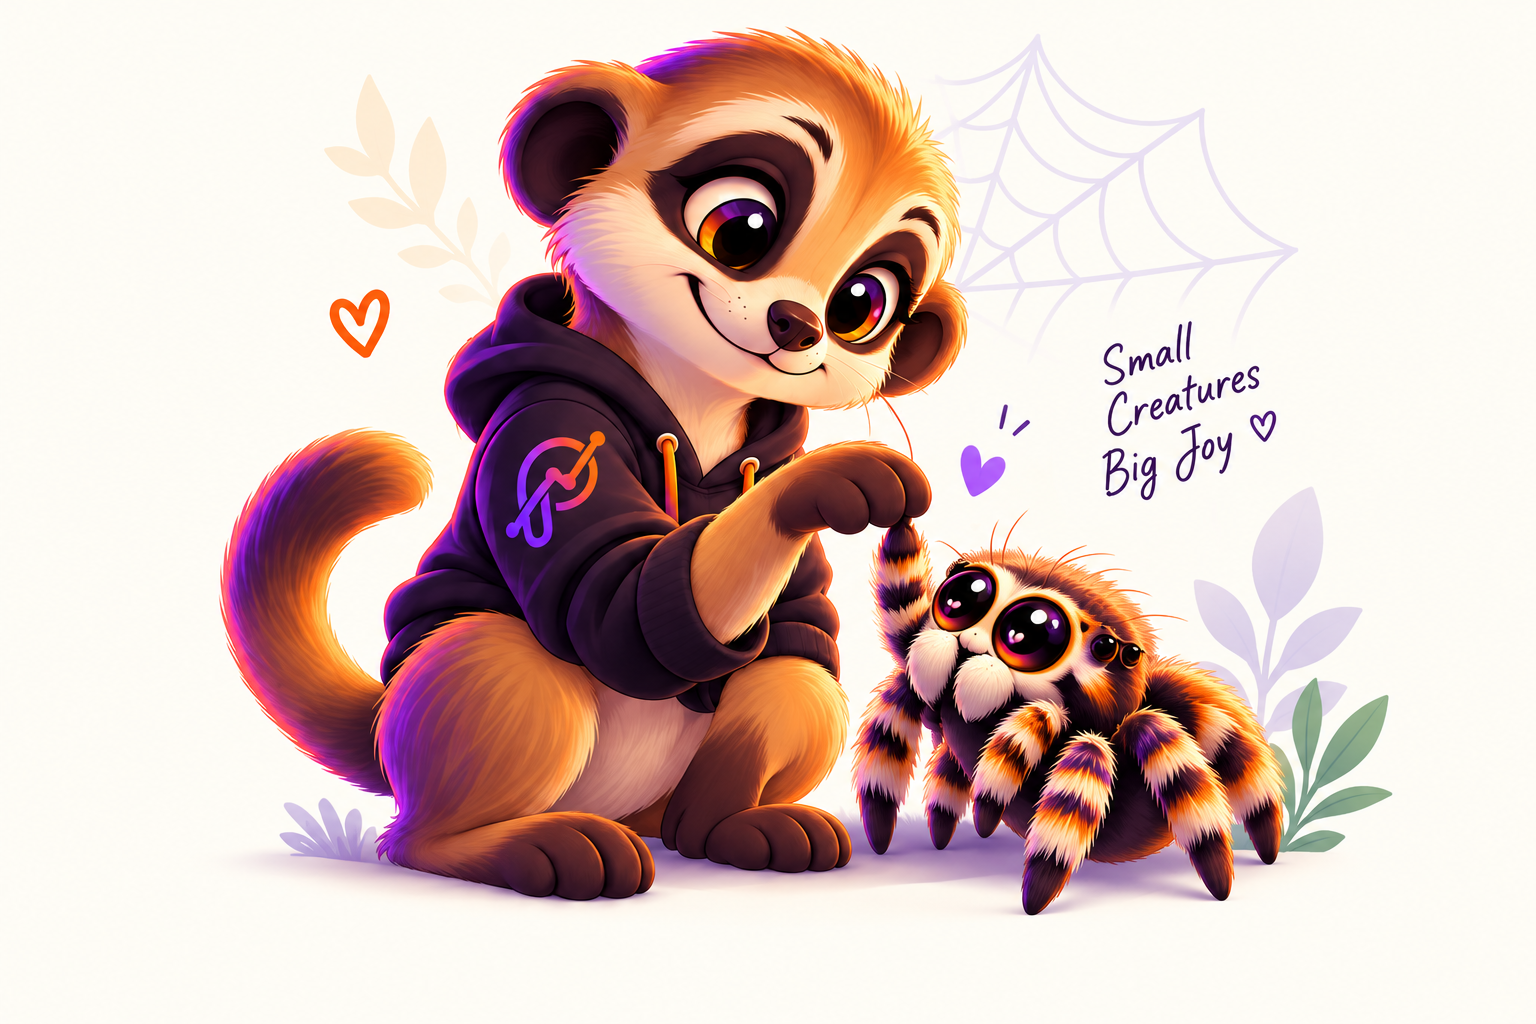
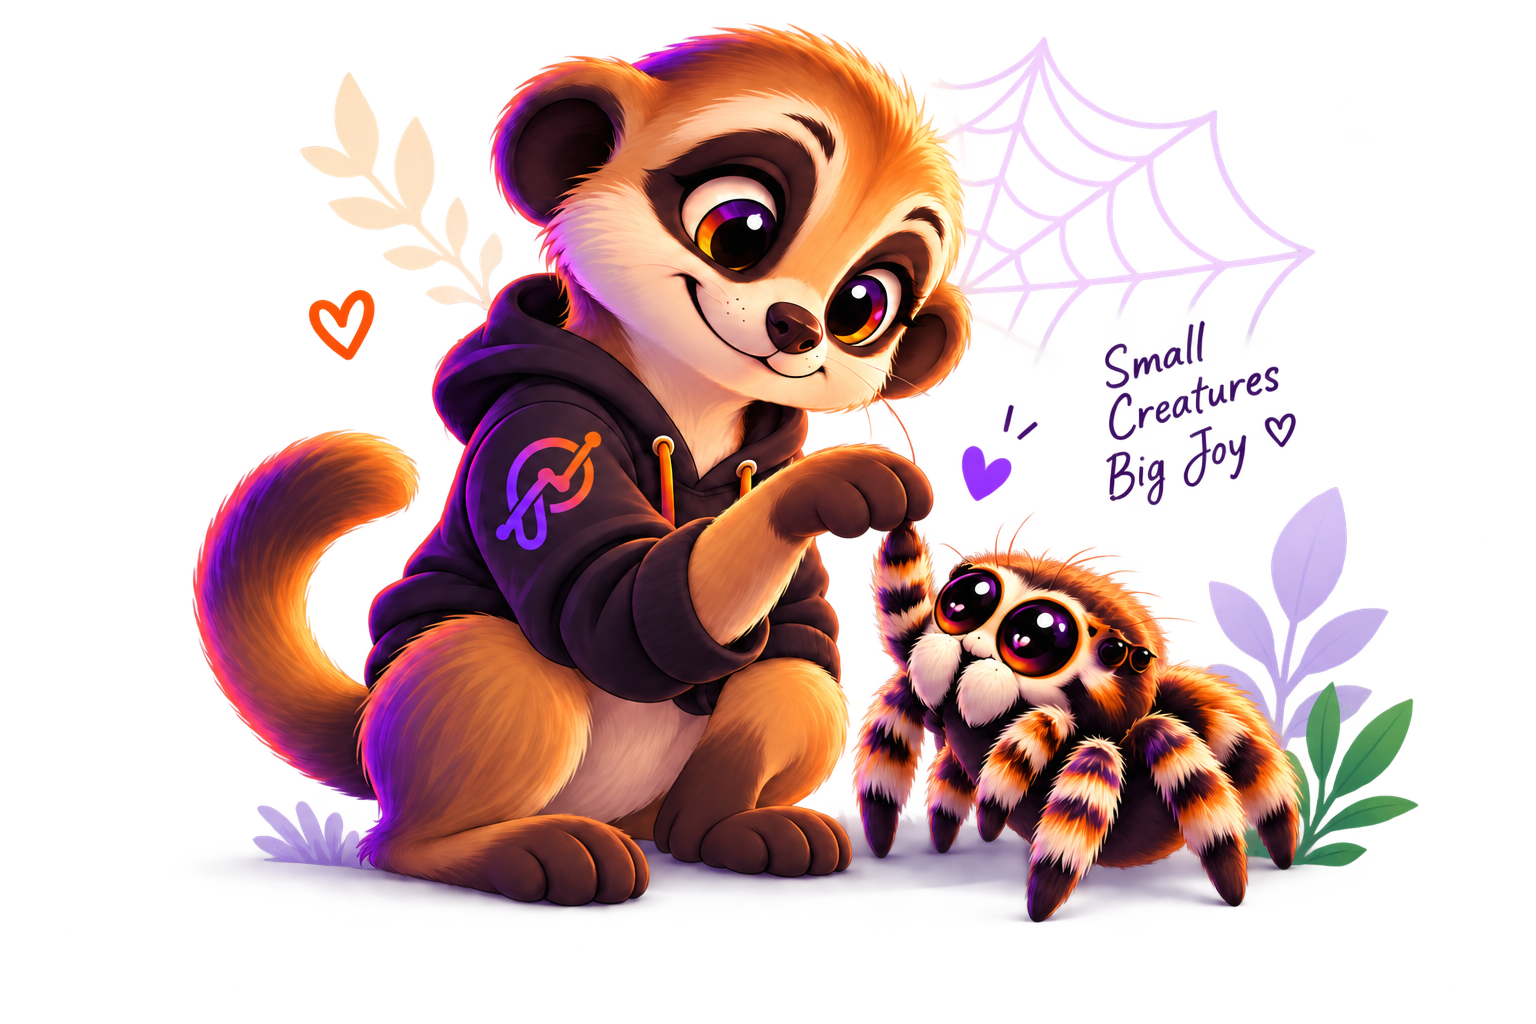
Refresh branding and login route paths
Align the project with the Polly's Web rebrand by updating the welcome post expectation, revising the home and legal hero artwork, and adjusting the social login routing test to look at the marketing login page. Also ignore mockup assets in git so generated design files stay out of version control.

Changed region(s): [[0.125, 0.0, 0.9375, 0.9062], [0.7188, 0.3125, 0.8438, 0.5], [0.6562, 0.4062, 0.6875, 0.4375]]

diff --git a/src/lib/social-login-routing.test.ts b/src/lib/social-login-routing.test.ts
@@ -6,7 +6,7 @@ import ts from "typescript";
 import { socialErrorMessage } from "./social-error";
 
 function loginPage(signedIn: boolean) {
-  const source = readFileSync(new URL("../app/(auth)/login/page.tsx", import.meta.url), "utf8");
+  const source = readFileSync(new URL("../app/(marketing)/login/page.tsx", import.meta.url), "utf8");
   const output = ts.transpileModule(source, {
     compilerOptions: { module: ts.ModuleKind.CommonJS, jsx: ts.JsxEmit.ReactJSX },
   }).outputText;

diff --git a/src/content/blog/blog-content.test.ts b/src/content/blog/blog-content.test.ts
@@ -29,5 +29,5 @@ test("every post has an excerpt, tags, and rendered structure", () => {
 
 test("the welcome post tells the rebrand story", () => {
   const post = getBlogPost("welcome-to-pollys-web");
-  assert.ok(post?.html.includes("Spoodly Space"));
+  assert.ok(post?.html.includes("Polly's Web"));
 });
